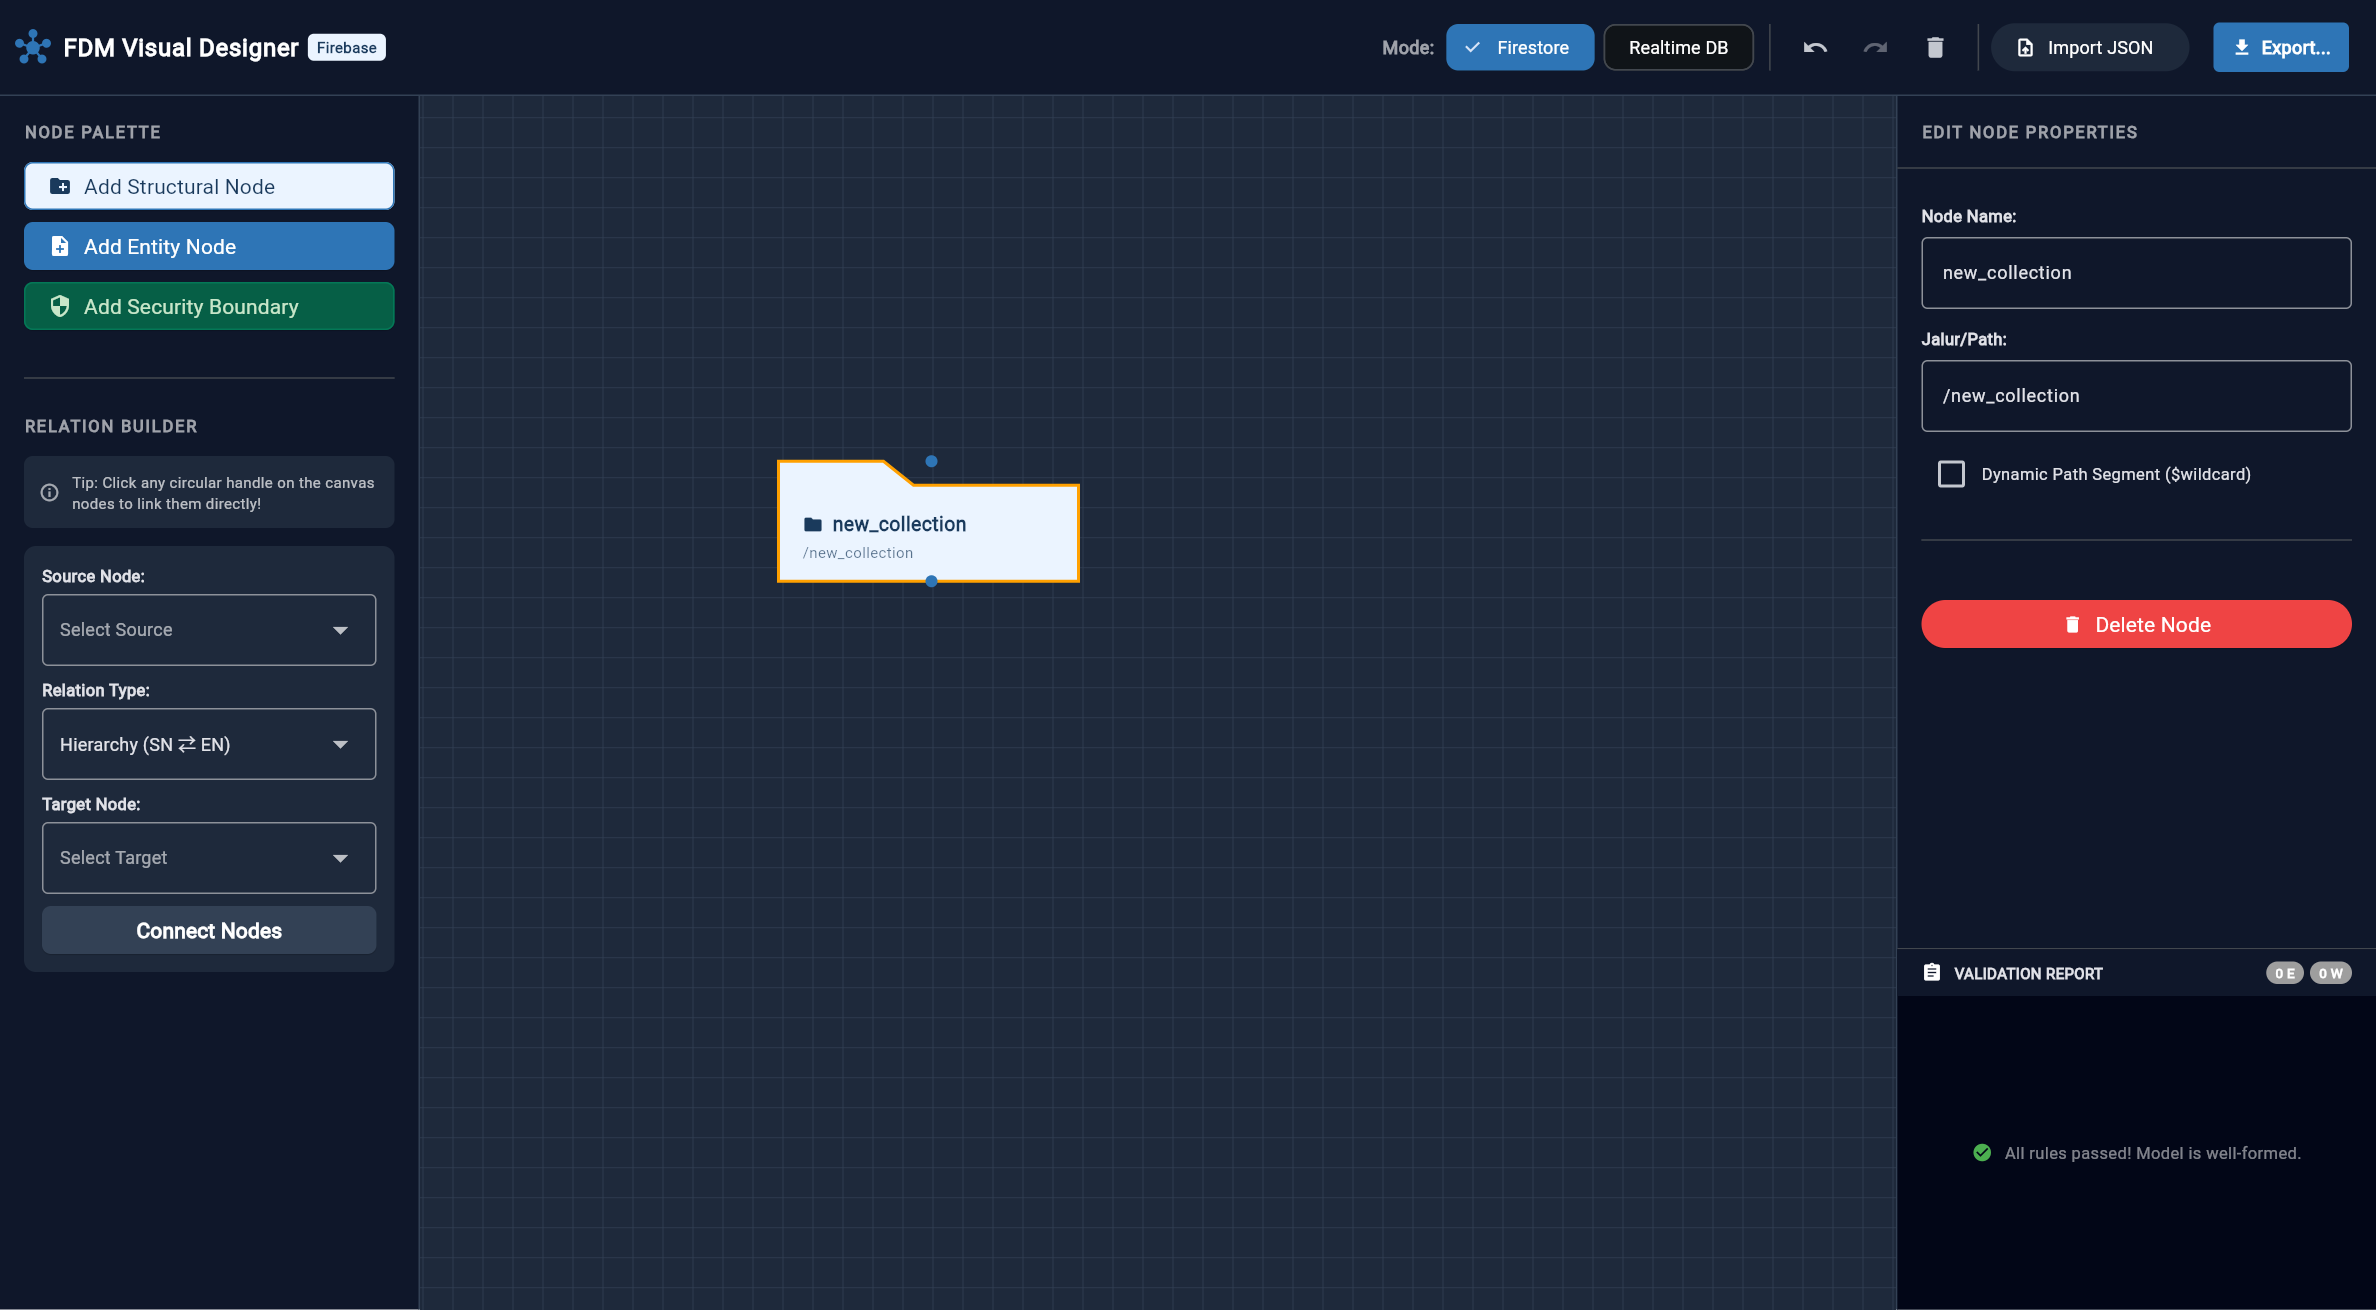
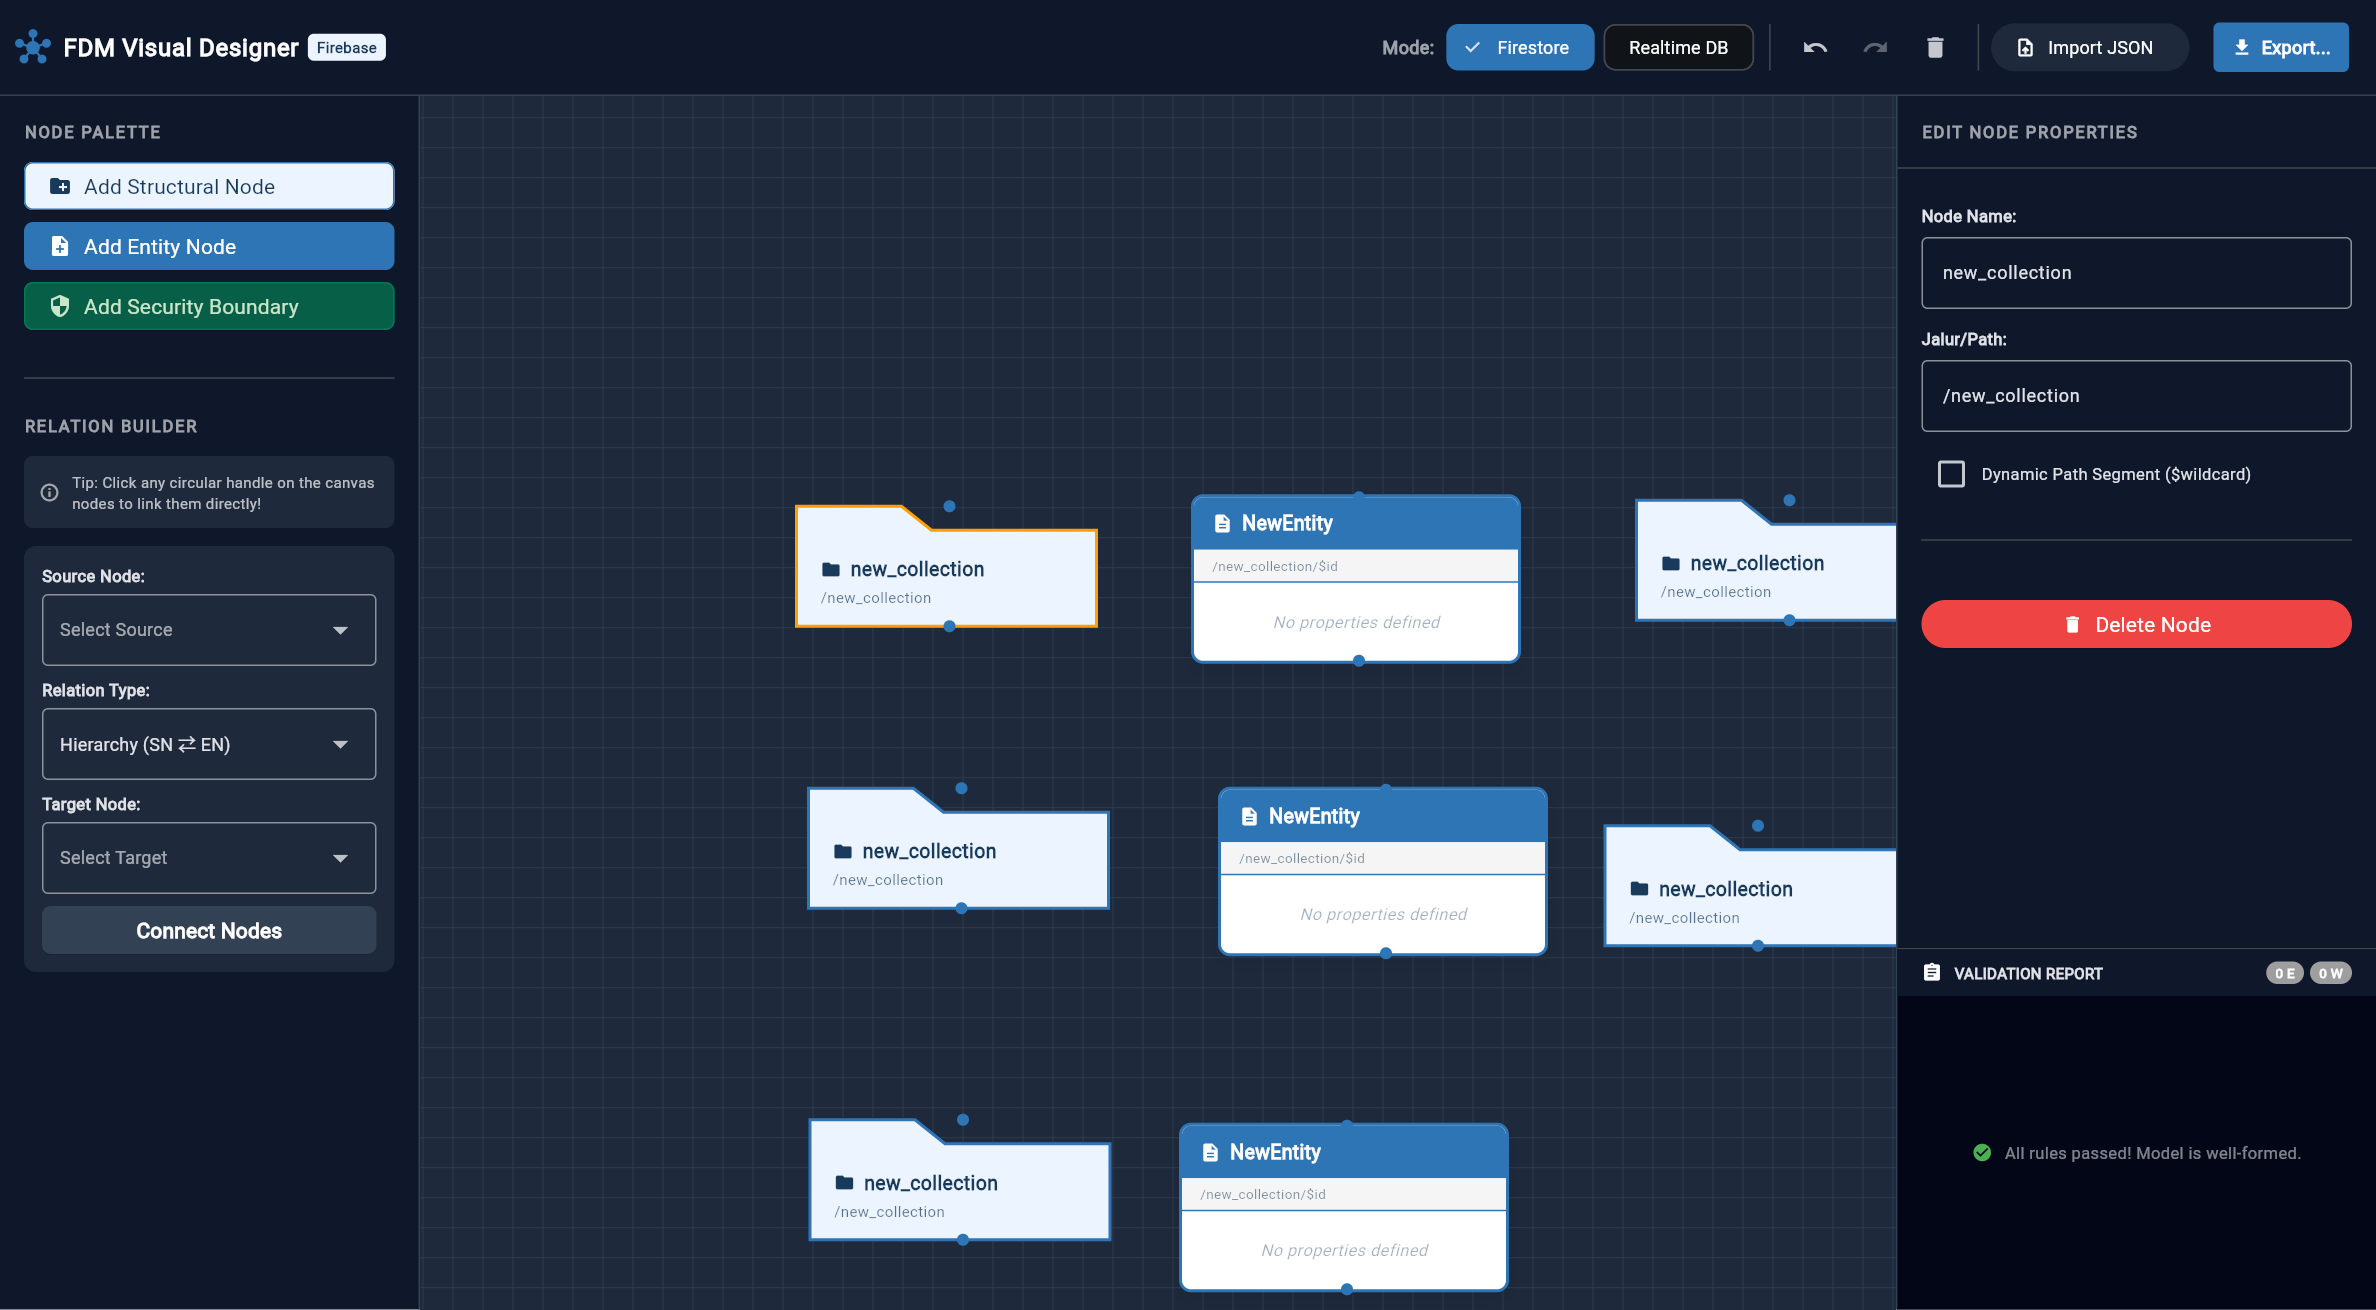
fix: finalize web deployment with new unsandboxed gesture tests

diff --git a/integration_test/app_test.dart b/integration_test/app_test.dart
@@ -37,46 +37,79 @@ void main() {
       expect(find.text('FDM Visual Designer'), findsOneWidget);
       expect(find.text('NODE PALETTE'), findsOneWidget);
 
-      // 3. Click the "Add Structural Node" button in the left sidebar
       final addStructuralBtn = find.text('Add Structural Node');
-      expect(addStructuralBtn, findsOneWidget);
-      await tester.tap(addStructuralBtn);
-      await tester.pumpAndSettle();
+      final addEntityBtn = find.text('Add Entity Node');
 
-      // 4. Verify a new node named "new_collection" is created on the canvas
-      expect(find.text('new_collection'), findsAtLeastNWidgets(1));
+      // 3. Add 5 Structural Nodes and 5 Entity Nodes (total 10 nodes)
+      // They will spawn in the 4-column Grid Layout we implemented.
+      for (int i = 0; i < 5; i++) {
+        await tester.tap(addStructuralBtn);
+        await tester.pumpAndSettle();
+        await tester.tap(addEntityBtn);
+        await tester.pumpAndSettle();
+      }
 
-      // Capture screenshot 2: After adding structural node
-      await takeScreenshot(tester, '2_added_structural_node');
+      // 4. Verify that we have multiple nodes on the canvas
+      expect(find.text('new_collection'), findsAtLeastNWidgets(5));
+      expect(find.text('NewEntity'), findsAtLeastNWidgets(5));
 
-      // 5. Select the node to see its properties in the right sidebar
+      // Capture screenshot 2: After adding 10 nodes in a grid layout (proving no overlap)
+      await takeScreenshot(tester, '2_added_10_nodes_grid');
+
+      // 5. Select one of the structural nodes
       await tester.tap(find.text('new_collection').first);
       await tester.pumpAndSettle();
 
-      // 6. Verify that the Right Sidebar properties panel is open and displays node details
+      // Verify that the Right Sidebar properties panel is open and displays node details
       expect(find.text('EDIT NODE PROPERTIES'), findsOneWidget);
       expect(find.text('Node Name:'), findsOneWidget);
 
       // Capture screenshot 3: Selected node showing right sidebar properties
       await takeScreenshot(tester, '3_selected_node_properties');
 
-      // 7. Click the "Add Entity Node" button in the left sidebar
-      final addEntityBtn = find.text('Add Entity Node');
-      expect(addEntityBtn, findsOneWidget);
-      await tester.tap(addEntityBtn);
+      // 6. Simulate a real multi-pointer Pinch Zoom Out gesture in the center of the canvas.
+      // Canvas is generally in the middle-right area. We target Offset(800, 500).
+      final Offset zoomCenterLeft = const Offset(700.0, 500.0);
+      final Offset zoomCenterRight = const Offset(900.0, 500.0);
+
+      final TestGesture pinchPointer1 = await tester.startGesture(zoomCenterLeft);
+      final TestGesture pinchPointer2 = await tester.startGesture(zoomCenterRight);
+      await tester.pump();
+
+      // Move pointers closer to each other to zoom out (pinch in)
+      await pinchPointer1.moveTo(const Offset(780.0, 500.0));
+      await pinchPointer2.moveTo(const Offset(820.0, 500.0));
       await tester.pumpAndSettle();
 
-      // 8. Verify the new entity node is created
-      expect(find.text('NewEntity'), findsAtLeastNWidgets(1));
+      await pinchPointer1.up();
+      await pinchPointer2.up();
+      await tester.pumpAndSettle();
 
-      // Capture screenshot 4: After adding entity node
-      await takeScreenshot(tester, '4_added_entity_node');
+      // Capture screenshot 4: After zooming out (proving grid & nodes scale stably without drift)
+      await takeScreenshot(tester, '4_zoomed_out_canvas');
+
+      // 7. Simulate dragging a node at this scaled zoom level to prove drag delta calculation is correct.
+      final Finder nodeToDrag = find.text('new_collection').first;
+      final Offset nodePosBeforeDrag = tester.getCenter(nodeToDrag);
+      
+      final TestGesture dragPointer = await tester.startGesture(nodePosBeforeDrag);
+      await tester.pump();
+
+      // Drag the node 150px right, 100px down
+      await dragPointer.moveTo(nodePosBeforeDrag + const Offset(150.0, 100.0));
+      await tester.pumpAndSettle();
+
+      await dragPointer.up();
+      await tester.pumpAndSettle();
+
+      // Capture screenshot 5: After dragging a node at zoomed-out scale
+      await takeScreenshot(tester, '5_dragged_node_zoomed_out');
 
       // Send all screenshots to the driver
       binding.reportData = {'screenshots': screenshotQueue};
 
-      // Pause a bit
-      await Future.delayed(const Duration(seconds: 2));
+      // Pause a bit to let headed browser display the completed state
+      await Future.delayed(const Duration(seconds: 3));
     });
   });
 }

diff --git a/Catatan Pengembangan/catatan_percakapan_proyek.md b/Catatan Pengembangan/catatan_percakapan_proyek.md
@@ -206,6 +206,28 @@
 | Sync Git Commit & Push | 11:23 | 11:25 | ~2 menit |
 | **Total Sesi** | **11:08** | **11:25** | **~17 menit** |
 
+### Sesi: Pengujian Integrasi Unsandboxed Headed Chrome (2026-07-06)
+
+**Ringkasan:**
+- **Analisis Permintaan**: Pengguna mengidentifikasi bahwa Chrome headed window sebelumnya tidak terbuka secara visual di desktop pengguna karena dijalankan di dalam sandbox terminal (menjalankan tes di background/headless virtual session). Prosedur Evergreen mewajibkan pengetesan interaktif headed secara visual.
+- **Eksekusi Unsandboxed**: 
+  - Meminta izin `unsandboxed` untuk perintah `flutter drive` guna melewati pembatasan isolasi sesi Windows terminal sandbox.
+  - Setelah izin diberikan, menjalankan `flutter drive` di luar terminal sandbox untuk membuka jendela browser Chrome secara fisik langsung di desktop pengguna.
+- **Verifikasi Visual**:
+  - Jendela Chrome terbuka secara interaktif, mensimulasikan penambahan 10 node, gerakan pinch-to-zoom out, dan drag node pada zoom-out level.
+  - Seluruh skenario pengujian integrasi lulus (`All tests passed!`).
+  - Menyalin screenshot bukti pengujian ke `dokumentasi-pengembangan/screenshots/iterasi_1a/` dan sinkronisasi repositori master.
+
+| Tahap | Waktu Mulai (WIB) | Waktu Selesai (WIB) | Durasi |
+|---|---|---|---|
+| Request Unsandboxed Permission | 11:25 | 11:27 | ~2 menit |
+| Run Unsandboxed headed E2E test | 11:27 | 11:31 | ~4 menit |
+| Verify & Sync Screenshots | 11:31 | 11:33 | ~2 menit |
+| Web Build & Deploy ke Vercel | 11:33 | 11:35 | ~2 menit |
+| Git Commit & Push | 11:35 | 11:37 | ~2 menit |
+| **Total Sesi** | **11:25** | **11:37** | **~12 menit** |
+
+
 
 
 

diff --git a/Catatan Pengembangan/log_perubahan.md b/Catatan Pengembangan/log_perubahan.md
@@ -92,4 +92,14 @@ Seluruh penambahan, peningkatan, dan perbaikan pada proyek FDM Visual Designer d
 - **Viewport Constraint / Bounded Child scale bug**: Memperbaiki masalah kritis di mana InteractiveViewer menciutkan canvas 4000x4000 menjadi ukuran viewport layar (misal 800x600) karena property `constrained` secara default bernilai `true`.
   - Menambahkan `constrained: false` secara eksplisit pada `InteractiveViewer` di `canvas_view.dart`. Ini memungkinkan canvas mempertahankan ukuran aslinya 4000x4000 sehingga semua hit-test koordinat dan rendering node pada posisi `(1200, 1300)` dan seterusnya menjadi presisi dan tidak melayang secara liar saat di-zoom/panning.
 
+## [1.3.3] - 2026-07-06 (Pengujian Integrasi Headed Visual & Skenario Zoom)
+
+### Added (Penambahan Skenario Tes)
+- **Skenario Integration Test Baru (Zoom & Grid Spawn)**: Mengubah dan memperluas skenario pengujian di `integration_test/app_test.dart` untuk mensimulasikan:
+  1. Penambahan 10 node berturut-turut (5 structural + 5 entity) secara otomatis untuk memverifikasi grid spawn layout.
+  2. Gerakan pinch-to-zoom out dengan 2 pointer virtual untuk memperkecil zoom canvas.
+  3. Aksi penyeretan (drag) node di bawah level zoom yang diperkecil untuk memverifikasi akurasi delta koordinat canvas-space.
+- **Eksekusi Unsandboxed**: Pengujian integrasi headed Chrome dijalankan di luar terminal sandbox (`unsandboxed`) sehingga jendela browser fisik Chrome terbuka secara nyata di layar desktop pengguna dan proses interaksinya terlihat secara visual.
+
+
 

diff --git a/Catatan Pengembangan/daftar_tugas.md b/Catatan Pengembangan/daftar_tugas.md
@@ -45,6 +45,8 @@
   - [x] Perbaikan bug zoom & penyeretan node liar (Multi-touch drag abort & canvas-space delta)
   - [x] Implementasi Grid-based Spawn Layout untuk mencegah penumpukan 10+ node baru
   - [x] Perbaikan bug viewport constraint (constrained: false) untuk menjaga kestabilan posisi node saat di-zoom/panning
+  - [x] Eksekusi Unsandboxed Headed E2E Integration Test secara interaktif dan visual di layar desktop user
+
 
 
 